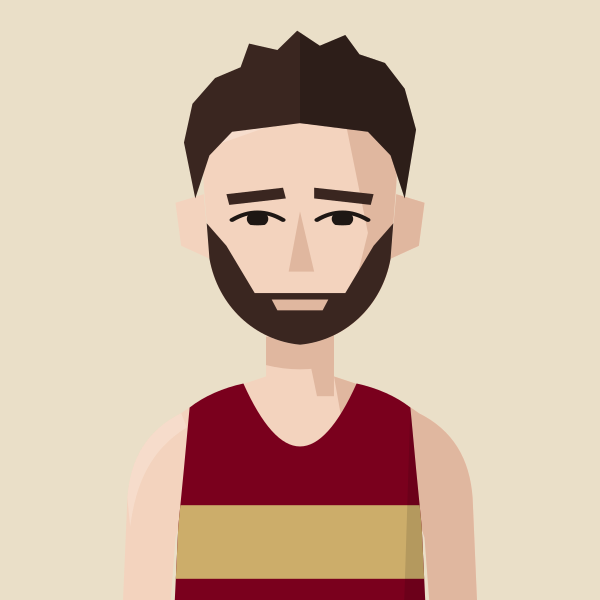
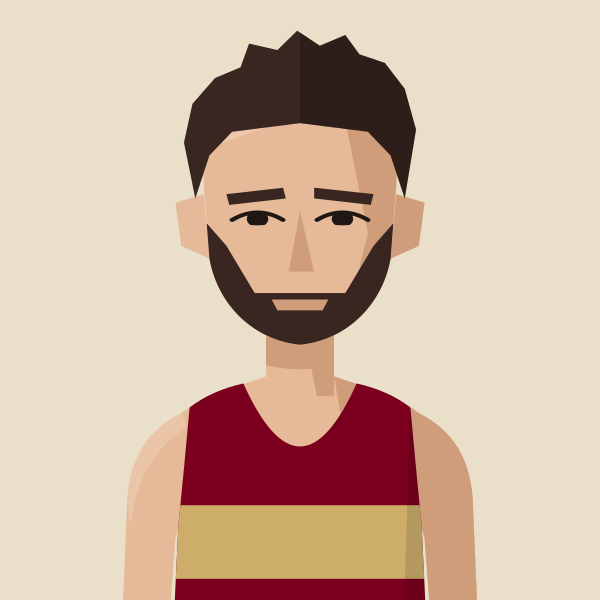
Portraits: Jonny Scott skin tone 2
Claude-Session: https://claude.ai/code/session_01MgmDWhFqnSSnP4iBLKXUZC

diff --git a/tools/gen_portraits.py b/tools/gen_portraits.py
@@ -280,7 +280,7 @@ save("ollington", figure("THH", skin=2, hair="crop", hair_colour="dark brown", f
 save("preston", figure("BEL", skin=3, hair="afro", hair_colour="black"))
 print(len(os.listdir("v4")))
 save("wolff", figure("BEL", skin=1, hair="crop", hair_colour="light brown"))
-save("scott", figure("BEL", skin=1, hair="tousled", hair_colour="dark brown", facial="beard"))
+save("scott", figure("BEL", skin=2, hair="tousled", hair_colour="dark brown", facial="beard"))
 save("mitchell", figure("BEL", skin=1, hair="quiff", hair_colour="ginger"))
 save("evans", figure("BEL", skin=1, hair="crop", hair_colour="#A8703F"))
 save("roberts", figure("HHH", skin=1, hair="curtains", hair_colour="bleached", roots="mid brown", mud=True))
